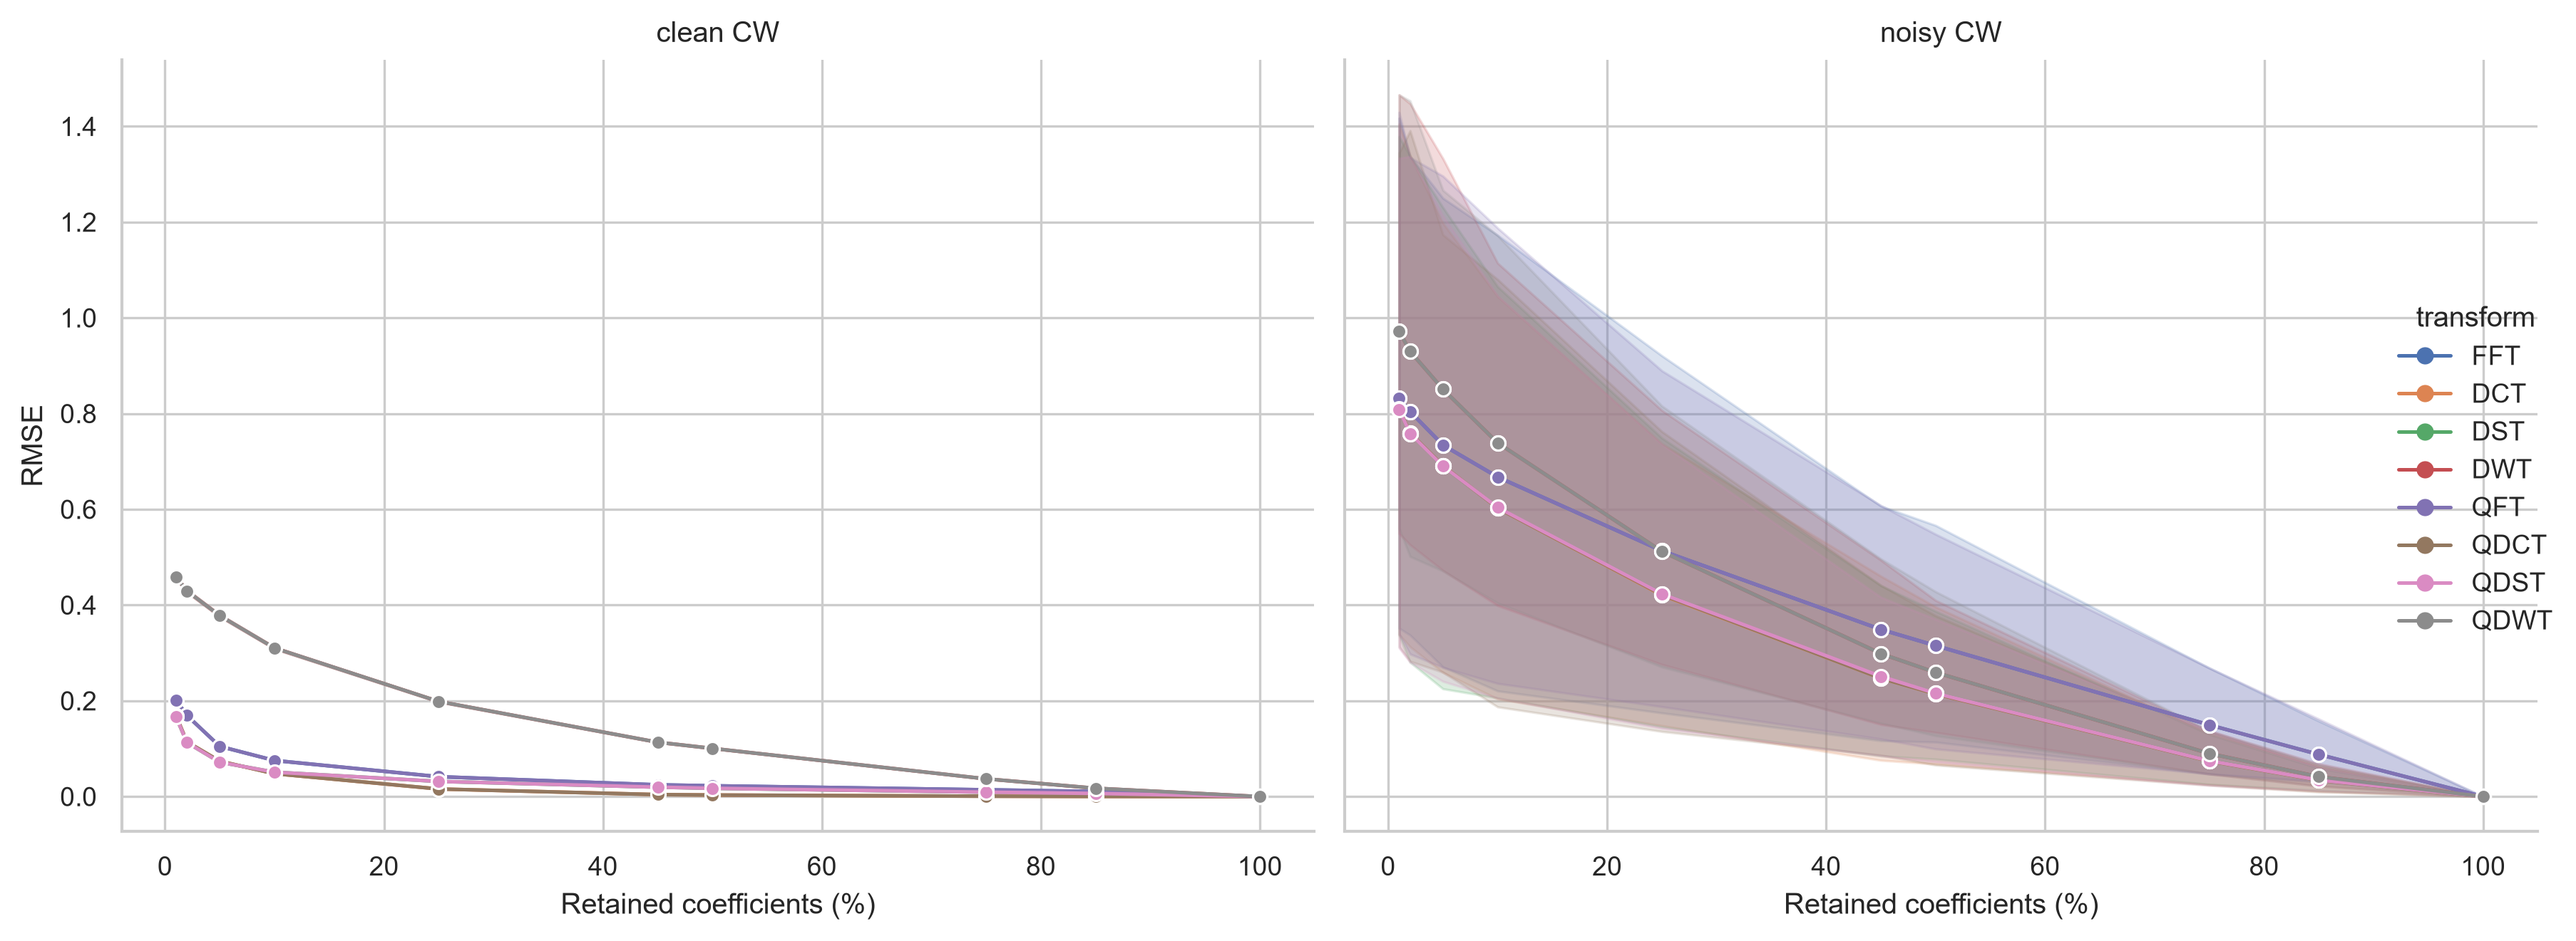
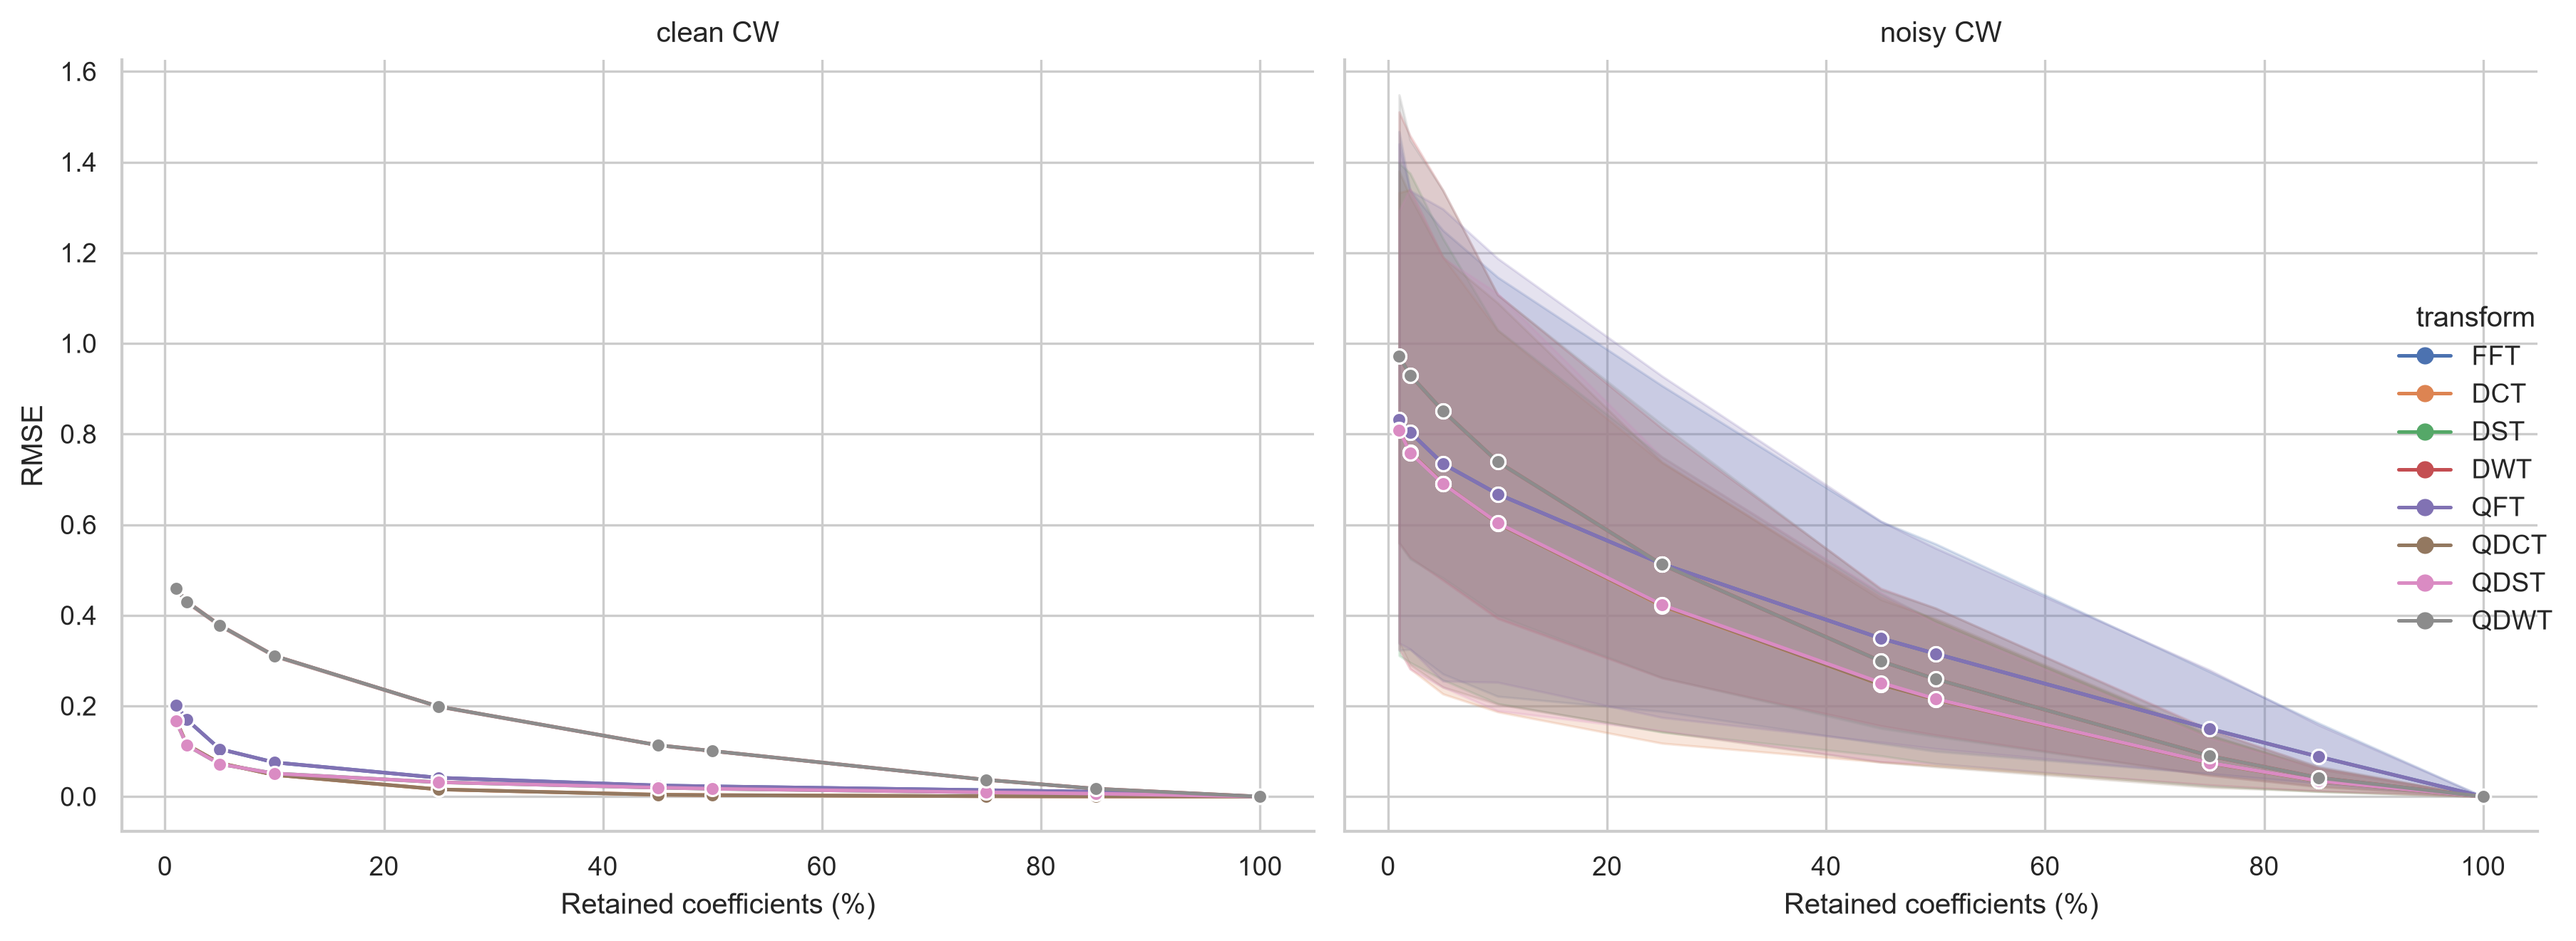
Noise devices

diff --git a/QFT_CW_Quantum.py b/QFT_CW_Quantum.py
@@ -20,6 +20,7 @@ from qiskit.circuit.library import StatePreparation, HGate, SwapGate, MCXGate, S
 from qiskit.quantum_info import Statevector, DensityMatrix, state_fidelity
 from qiskit_aer import AerSimulator
 from qiskit_ibm_runtime.fake_provider import FakeSherbrooke
+from qiskit_aer.noise import NoiseModel
 
 import matplotlib
 matplotlib.use("Agg", force=True)
@@ -1227,10 +1228,30 @@ def save_plots(full_results,plots_dir):
 
         noisy10=noisy_df[noisy_df["snr_requested_db"]==10]
         if not noisy10.empty:
-            g=sns.relplot(data=noisy10,x="retention_pct",y="snr_vs_clean_db",hue="transform",col="wpm",col_wrap=3,kind="line",marker="o",estimator="mean",errorbar="sd",height=3.8,aspect=1.15)
-            g.set_axis_labels("Retained coefficients (%)","SNR vs clean CW (dB)")
+            n_wpm=noisy10["wpm"].nunique()
+            g=sns.relplot(
+                data=noisy10,
+                x="retention_pct",
+                y="snr_vs_clean_db",
+                hue="transform",
+                col="wpm",
+                col_wrap=min(3,n_wpm),
+                kind="line",
+                marker="o",
+                estimator="mean",
+                errorbar="sd",
+                height=3.8,
+                aspect=1.15,
+            )
+            g.set_axis_labels(
+                "Retained coefficients (%)",
+                "SNR vs clean CW (dB)",
+            )
             g.set_titles("{col_name} WPM — 10 dB input")
-            for ax in g.axes.flat: ax.invert_xaxis()
+
+            for ax in g.axes.flat:
+                ax.invert_xaxis()
+
             save_grid(g,"08_noisy_snr_by_wpm_10db.png")
 
         five=noisy_df[np.isclose(noisy_df["retention_requested"],0.05)]
@@ -1262,7 +1283,21 @@ def save_plots(full_results,plots_dir):
         plt.gca().invert_xaxis()
         save_current("05_family_clean_rmse.png")
 
-        g=sns.relplot(data=clean,x="retention_pct",y="rmse_vs_clean",hue="transform",col="wpm",col_wrap=3,kind="line",marker="o",estimator="mean",errorbar="sd",height=3.8,aspect=1.15)
+        n_wpm=clean["wpm"].nunique()
+        g=sns.relplot(
+            data=clean,
+            x="retention_pct",
+            y="rmse_vs_clean",
+            hue="transform",
+            col="wpm",
+            col_wrap=min(3,n_wpm),
+            kind="line",
+            marker="o",
+            estimator="mean",
+            errorbar="sd",
+            height=3.8,
+            aspect=1.15,
+        )
         g.set_axis_labels("Retained coefficients (%)","RMSE")
         g.set_titles("{col_name} WPM")
         for ax in g.axes.flat: ax.invert_xaxis()
@@ -1314,16 +1349,17 @@ def save_plots(full_results,plots_dir):
 
 
 def run_noise_analysis(clean_signal, noisy_signal, output_csv):
-    fake_devices = {
-        "ideal": None,
-        "FakeSherbrooke": FakeSherbrooke(),
-    }
+    fake=FakeSherbrooke()
+    sherbrooke_noise=NoiseModel.from_backend(fake)
 
-    noise_simulators = {
-        name: AerSimulator(method="density_matrix")
-        if backend is None
-        else AerSimulator.from_backend(backend, method="density_matrix")
-        for name, backend in fake_devices.items()
+    noise_simulators={
+        "ideal":AerSimulator(
+            method="density_matrix",
+        ),
+        "FakeSherbrooke":AerSimulator(
+            method="density_matrix",
+            noise_model=sherbrooke_noise
+        ),
     }
 
     noisy_transforms = {
@@ -1333,49 +1369,52 @@ def run_noise_analysis(clean_signal, noisy_signal, output_csv):
         "QDWT": cached_qhaar,
     }
 
-    def run_noisy_transform(x, transform, simulator):
-        qc, norm, n = build_transform_pipeline(x, transform)
+    def run_noisy_transform(x,transform,simulator):
+        qc,norm,n=build_transform_pipeline(x,transform)
 
         if qc is None:
             return {
-                "fidelity": 1.0,
-                "leakage": 0.0,
-                "depth": 0,
-                "size": 0,
-                "ops": {},
+                "fidelity":1.0,
+                "leakage":0.0,
+                "depth":0,
+                "size":0,
+                "ops":{},
             }
 
-        ideal = Statevector.from_instruction(qc)
-
-        noisy_qc = qc.copy()
-        noisy_qc.save_density_matrix()
-
-        tqc = transpile(
-            noisy_qc,
+        # First compile only the real quantum circuit.
+        tqc=transpile(
+            qc,
             simulator,
             optimization_level=1,
         )
 
-        result = simulator.run(tqc).result()
-        rho = DensityMatrix(result.data(0)["density_matrix"])
+        # Ideal reference of the exact transpiled circuit.
+        ideal=Statevector.from_instruction(tqc)
 
-        fidelity = float(state_fidelity(ideal, rho))
-        leakage = 0.0
+        # Aer-only save instruction is added AFTER transpilation.
+        noisy_qc=tqc.copy()
+        noisy_qc.save_density_matrix()
 
-        if transform.num_qubits == n + 1:
-            N = 2 ** n
-            diagonal = np.real(np.diag(rho.data))
-            leakage = max(
+        result=simulator.run(noisy_qc).result()
+        rho=DensityMatrix(result.data(0)["density_matrix"])
+
+        fidelity=float(state_fidelity(ideal,rho))
+        leakage=0.0
+
+        if transform.num_qubits==n+1:
+            N=2**n
+            diagonal=np.real(np.diag(rho.data))
+            leakage=max(
                 0.0,
-                1.0 - float(np.sum(diagonal[:N])),
+                1.0-float(np.sum(diagonal[:N])),
             )
 
         return {
-            "fidelity": fidelity,
-            "leakage": leakage,
-            "depth": tqc.depth(),
-            "size": tqc.size(),
-            "ops": dict(tqc.count_ops()),
+            "fidelity":fidelity,
+            "leakage":leakage,
+            "depth":tqc.depth(),
+            "size":tqc.size(),
+            "ops":dict(tqc.count_ops()),
         }
 
     def noise_analyze_recording(signal, simulator, device_name):
